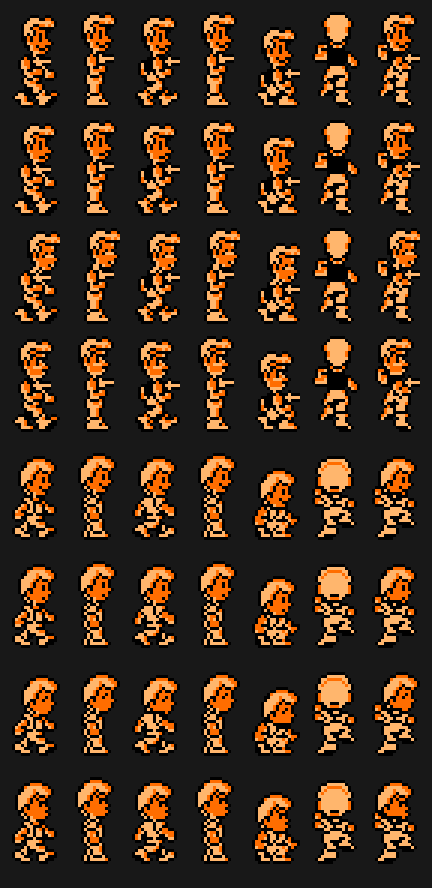
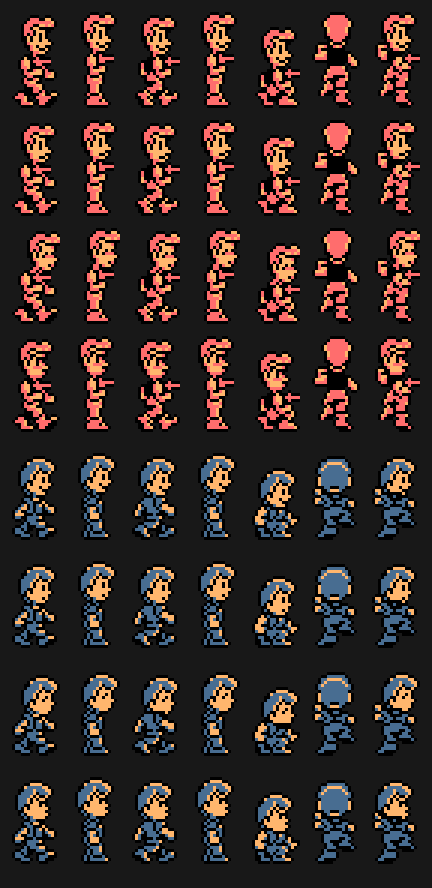
Usas: personajes con la paleta de cada uno (p00:5A79 Wit, p00:5A80 Cles) sobre p06:B335

diff --git a/tools/personajes.py b/tools/personajes.py
@@ -88,6 +88,21 @@ def pixeles(buf):
     return out
 
 
+# LOS COLORES. Las capas van con los colores 6 y 9 (0x49: el bit CC hace OR),
+# y donde se tocan sale el 15 (p01:67F2; Cles en la sala 5, 0x4B). La paleta es
+# la de las fases (p00:53DE: p06:B335, el 15 negro) con la de cada personaje
+# encima (p00:5A69): p00:5A79 para Wit y p00:5A80 para Cles.
+PALETA_PERSONAJE = {0: 0x5A79, 1: 0x5A80}
+
+
+def colores_de(personaje):
+    from rom import T123
+    import fases
+    v = fases.vram_de_ruina(0)
+    v.paleta(T123, PALETA_PERSONAJE[personaje])
+    return {1: v.rgb(COLOR_0), 2: v.rgb(COLOR_1), 3: v.rgb(COLOR_0 | COLOR_1)}
+
+
 def fotogramas(personaje, estado):
     t = TABLAS[personaje]
     return [palabra(T131415, t + estado * 14 + 2 * k) for k in range(7)]
@@ -96,12 +111,11 @@ def fotogramas(personaje, estado):
 def hoja(ruta, escala=3):
     """2 personajes x 4 estados x 7 fotogramas, con la paleta de las fases de la ruina 0."""
     from PIL import Image
-    import fases
-    v = fases.vram_de_ruina(0)
-    colores = {0: None, 1: v.rgb(COLOR_0), 2: v.rgb(COLOR_1), 3: v.rgb(COLOR_0 | COLOR_1)}
     ancho, alto = 7 * 20 + 4, 2 * 4 * 36 + 8
     img = Image.new("RGB", (ancho, alto), (24, 24, 24))
     for pj in range(2):
+        colores = colores_de(pj)
+        colores[0] = None
         for est in range(4):
             for k, foto in enumerate(fotogramas(pj, est)):
                 px = pixeles(compone(foto))
@@ -145,9 +159,7 @@ def anima(ruta, escala=3):
     andar, en el aire, escalera y escalera con direccion. Un cuadro del GIF
     son 2 cuadros del juego (60 Hz)."""
     from PIL import Image
-    import fases
-    v = fases.vram_de_ruina(0)
-    colores = {1: v.rgb(COLOR_0), 2: v.rgb(COLOR_1), 3: v.rgb(COLOR_0 | COLOR_1)}
+    colores = {pj: colores_de(pj) for pj in range(2)}
     px = {(pj, est): [pixeles(compone(f)) for f in fotogramas(pj, est)]
           for pj in range(2) for est in range(4)}
     # cuadros del juego por cuadro de GIF y cuantos cuadros de GIF: un ciclo
@@ -170,7 +182,7 @@ def anima(ruta, escala=3):
                     for y in range(32):
                         for x in range(16):
                             if d[y][x]:
-                                img.putpixel((4 + c * 22 + x, oy + y), colores[d[y][x]])
+                                img.putpixel((4 + c * 22 + x, oy + y), colores[pj][d[y][x]])
         imgs.append(img.resize((img.width * escala, img.height * escala), Image.NEAREST))
     imgs[0].save(ruta, save_all=True, append_images=imgs[1:],
                  duration=round(paso_gif * 1000 / 60), loop=0)
